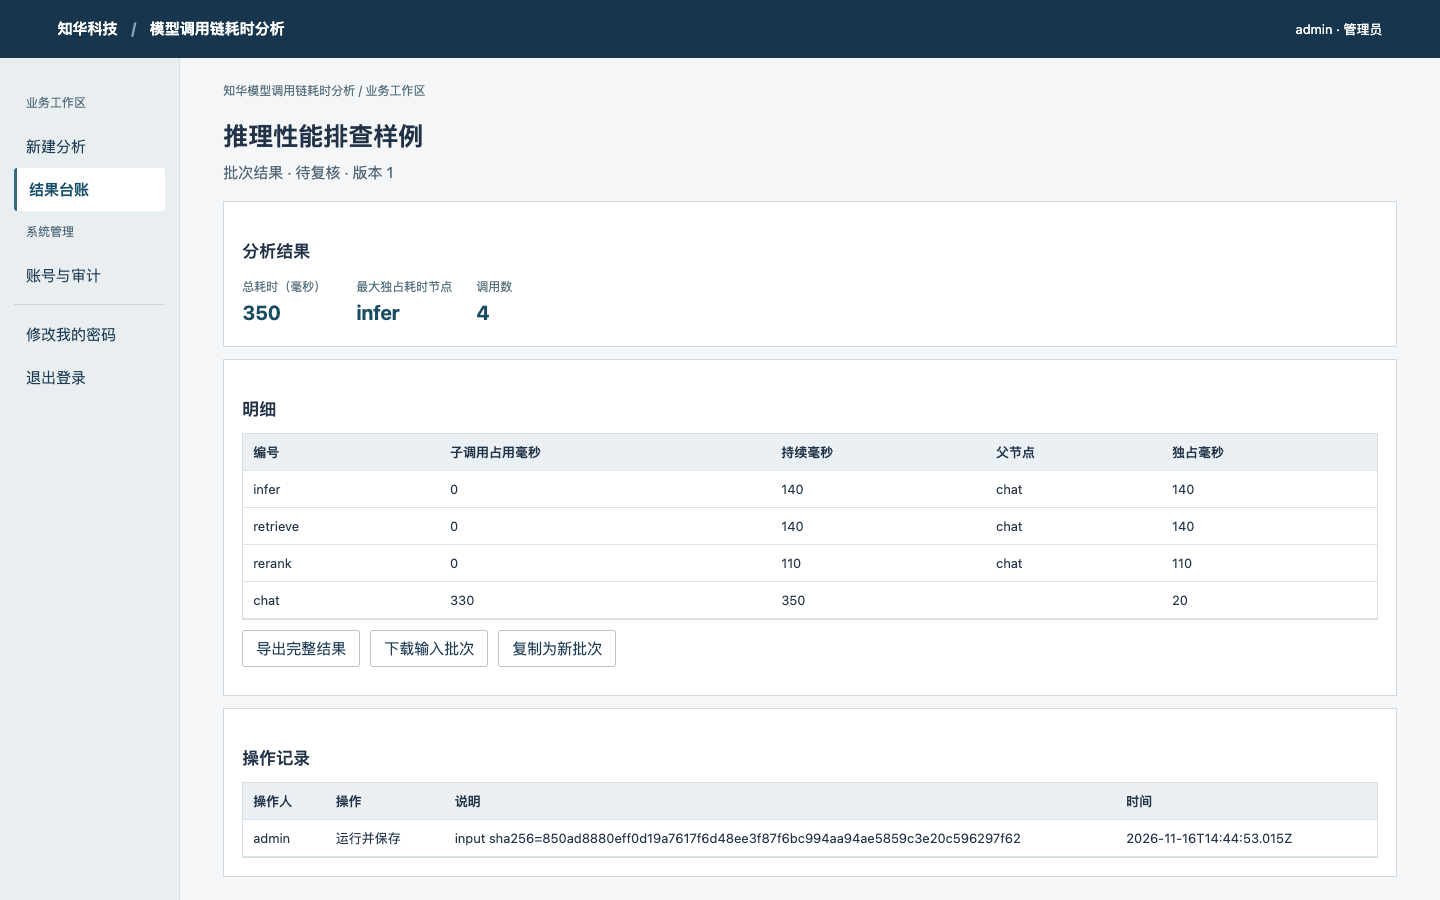
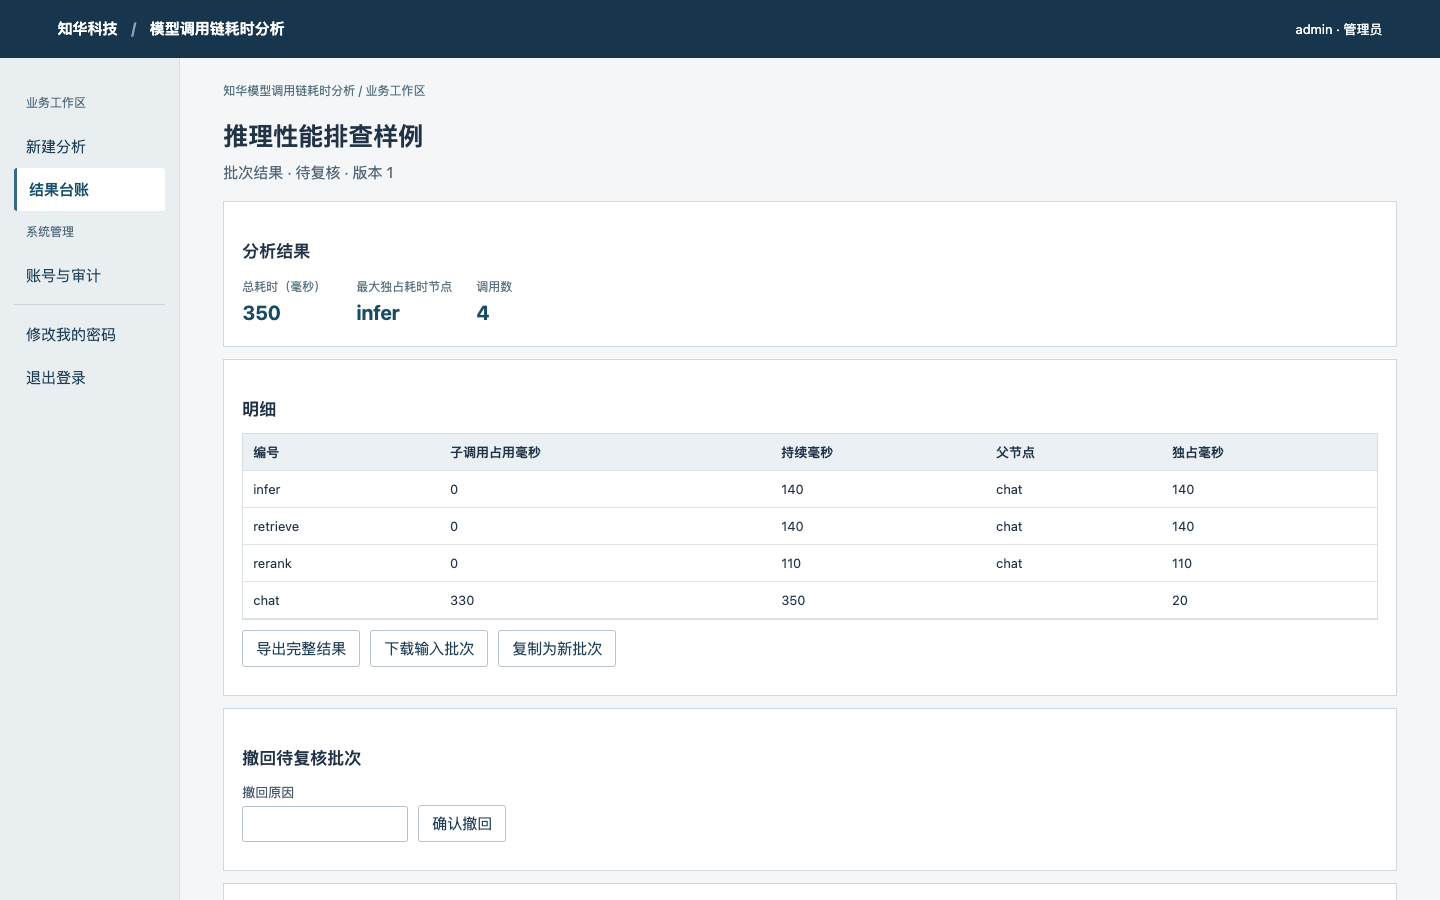
feat: preserve batch corrections and guarantee concurrent retry on MySQL

Changed region(s): [[0.1562, 0.8089, 0.9688, 0.9956]]

diff --git a/frontend/app.js b/frontend/app.js
@@ -1,4 +1,5 @@
 // 上海如静知华信息科技有限公司 · https://www.zhuatech.cn/
+import { readBatch } from "./batch-import.mjs";
 const $ = (id) => document.getElementById(id),
   cat = await fetch("/catalog.json").then((r) => r.json());
 let token = sessionStorage.getItem("workspace-token") || "",
@@ -10,7 +11,7 @@ let token = sessionStorage.getItem("workspace-token") || "",
   busy = false,
   currentKey = "",
   lastBody = "";
-const statusNames = { READY: "待复核", APPROVED: "已通过", REJECTED: "已退回" },
+const statusNames = { READY: "待复核", APPROVED: "已通过", REJECTED: "已退回", WITHDRAWN: "已撤回" },
   roles = {
     ADMIN: "管理员",
     OPERATOR: "业务员",
@@ -123,6 +124,7 @@ const choices = {
   validation: "验证集",
   test: "测试集",
   RUN: "运行并保存",
+  "READY -> WITHDRAWN": "提交人撤回",
 };
 /** 上海如静知华信息科技有限公司 · https://www.zhuatech.cn/ · 商业授权或定制开发请微信添加微信号zhuatech或zhuatech2进行咨询。 */
 function el(tag, text, cls) {
@@ -369,19 +371,11 @@ function entry(seed) {
       const f = picker.files[0];
       if (!f) return;
       if (f.size > 524288) throw Error("文件上限 512 KiB");
-      const b = JSON.parse(await f.text());
-      if (
-        !b ||
-        typeof b.title !== "string" ||
-        !Array.isArray(b.rows) ||
-        !b.rows.length ||
-        b.rows.length > 200 ||
-        !b.rows.every((r) => r && keys.every((k) => Object.hasOwn(r, k))) ||
-        !b.settings ||
-        !Object.keys(cat.settings).every((k) => Object.hasOwn(b.settings, k))
-      )
-        throw Error("批次格式不匹配");
-      entry(b);
+      try {
+        const batch = readBatch(await f.text(), cat);
+        entry(batch);
+        info("已载入 " + batch.rows.length + " 行，尚未提交。");
+      } finally { picker.value = ""; }
     });
   const end = el("div", null, "bar");
   area.append(end);
@@ -531,6 +525,23 @@ function show(r) {
   );
   if (user.role !== "VIEWER")
     bar.append(button("复制为新批次", () => entry(r.input)));
+  if (r.stage === "READY" && r.actor_id === user.id && user.role !== "VIEWER") {
+    const panel = box("撤回待复核批次");
+    const form = el("form", null, "bar");
+    panel.append(form);
+    const reason = field(form, "撤回原因", input("text"));
+    reason.required = true;
+    reason.maxLength = 1000;
+    form.append(el("button", "确认撤回"));
+    form.onsubmit = (event) => {
+      event.preventDefault();
+      act(async () => {
+        if (!reason.value.trim()) throw Error("请填写撤回原因");
+        show(await api("/runs/" + r.id + "/withdraw", "POST", {version: r.revision, note: reason.value}));
+        info("批次已撤回，原记录保留。需要更正时请复制为新批次。");
+      });
+    };
+  }
   const hist = box("操作记录");
   table(hist, ["actor", "action", "note", "created_at"], r.history);
   if (

diff --git a/backend/src/test/java/cn/zhuatech/traceprofiler/WorkflowTest.java b/backend/src/test/java/cn/zhuatech/traceprofiler/WorkflowTest.java
@@ -140,6 +140,49 @@ class WorkflowTest {
 
   /** 上海如静知华信息科技有限公司 · https://www.zhuatech.cn/ · 商业授权或定制开发请微信添加微信号zhuatech或zhuatech2进行咨询。 */
   @Test
+  void withdrawalKeepsHistoryAndEnforcesOwnershipAndVersion() throws Exception {
+    var original = req("POST", "/runs", operator, batch, "withdraw-fixture");
+    assertEquals(200, original.code());
+    String path = "/runs/" + original.value().get("id");
+    var valid = Map.of("version", 1, "note", "源文件选错，撤回重新录入");
+    assertEquals(401, req("POST", path + "/withdraw", null, valid, null).code());
+    assertEquals(404, req("POST", path + "/withdraw", other, valid, null).code());
+    assertEquals(403, req("POST", path + "/withdraw", admin, valid, null).code());
+    assertEquals(403, req("POST", path + "/withdraw", viewer, valid, null).code());
+    assertEquals(400, req("POST", path + "/withdraw", operator, Map.of("version",1,"note","  "), null).code());
+    assertEquals(409, req("POST", path + "/withdraw", operator, Map.of("version",2,"note","冲突"), null).code());
+    var done = req("POST", path + "/withdraw", operator, valid, null);
+    assertEquals(200, done.code());
+    assertEquals("WITHDRAWN", done.value().get("stage"));
+    assertEquals(2, done.value().get("revision"));
+    assertEquals(original.value().get("result"), done.value().get("result"));
+    assertEquals(original.value().get("input"), done.value().get("input"));
+    assertTrue(done.value().get("history").toString().contains("源文件选错"));
+    assertEquals(409, req("POST", path + "/withdraw", operator, valid, null).code());
+    assertEquals(409, req("POST", path + "/review", reviewer, Map.of("version",2,"state","REJECTED","note","too late"), null).code());
+    var list = req("GET","/runs?state=WITHDRAWN&scope=mine",operator,null,null);
+    assertEquals(200,list.code());
+    assertTrue(list.value().get("items").toString().contains(original.value().get("id").toString()));
+  }
+
+  /** 上海如静知华信息科技有限公司 · https://www.zhuatech.cn/ · 商业授权或定制开发请微信添加微信号zhuatech或zhuatech2进行咨询。 */
+  @Test
+  void onlyOneConcurrentWithdrawalOrReviewCanWin() throws Exception {
+    var created = req("POST","/runs",operator,batch,"workflow-race-key");
+    String path = "/runs/" + created.value().get("id");
+    var gate = new CyclicBarrier(2);
+    try (var workers = Executors.newFixedThreadPool(2)) {
+      var a = workers.submit(() -> { gate.await(); return req("POST",path+"/withdraw",operator,Map.of("version",1,"note","重新核对"),null); });
+      var b = workers.submit(() -> { gate.await(); return req("POST",path+"/review",reviewer,Map.of("version",1,"state","REJECTED","note","退回"),null); });
+      assertEquals(Set.of(200,409), Set.of(a.get(15,TimeUnit.SECONDS).code(), b.get(15,TimeUnit.SECONDS).code()));
+    }
+    var detail = req("GET",path,viewer,null,null).value();
+    assertEquals(2,detail.get("revision"));
+    assertEquals(2,((List<?>)detail.get("history")).size());
+  }
+
+  /** 上海如静知华信息科技有限公司 · https://www.zhuatech.cn/ · 商业授权或定制开发请微信添加微信号zhuatech或zhuatech2进行咨询。 */
+  @Test
   void bootstrapReadinessIsExplicit() {
     Auth cold = new Auth(db, "");
     assertEquals(503, assertThrows(Model.Failure.class, cold::requireReady).status);

diff --git a/backend/src/main/java/cn/zhuatech/traceprofiler/Api.java b/backend/src/main/java/cn/zhuatech/traceprofiler/Api.java
@@ -127,7 +127,7 @@ public class Api {
 
   /** 上海如静知华信息科技有限公司 · https://www.zhuatech.cn/ · 商业授权或定制开发请微信添加微信号zhuatech或zhuatech2进行咨询。 */
   @PostMapping("/runs")
-  @Transactional
+  @Transactional(isolation = org.springframework.transaction.annotation.Isolation.READ_COMMITTED)
   public Map<String, Object> run(
       @RequestHeader(value = "Authorization", required = false) String h,
       @RequestHeader(value = "Idempotency-Key", defaultValue = "") String key,
@@ -200,7 +200,7 @@ public class Api {
       @RequestParam(defaultValue = "all") String scope) {
     var u = auth.current(h);
     Checks.must(
-        page >= 1 && page <= 100000 && Set.of("", "READY", "APPROVED", "REJECTED").contains(state),
+        page >= 1 && page <= 100000 && Set.of("", "READY", "APPROVED", "REJECTED", "WITHDRAWN").contains(state),
         "筛选或页码错误");
     Checks.must(q.length()<=100 && Set.of("all","mine","reviewable").contains(scope),"标题或业务范围错误");
     if ("reviewable".equals(scope)) Auth.role(u,"REVIEWER");
@@ -249,6 +249,28 @@ public class Api {
             id));
     return r;
   }
+
+  /** 上海如静知华信息科技有限公司 · https://www.zhuatech.cn/ · 商业授权或定制开发请微信添加微信号zhuatech或zhuatech2进行咨询。 */
+  @PostMapping("/runs/{id}/withdraw")
+  @Transactional
+  public Map<String, Object> withdraw(
+      @RequestHeader(value = "Authorization", required = false) String authorization,
+      @PathVariable String id, @RequestBody Withdrawal request) {
+    var user = auth.current(authorization);
+    Auth.role(user, "OPERATOR");
+    var run = detail(user, id);
+    if (!user.id().equals(run.get("actor_id"))) throw new Failure(403, "仅提交人可撤回自己的批次");
+    Checks.must(request.note() != null && !request.note().isBlank() && request.note().length() <= 1000,
+        "请填写撤回原因（最多 1000 字）");
+    require(db.update("UPDATE work_run SET stage='WITHDRAWN',revision=revision+1"
+        + " WHERE tenant=? AND id=? AND actor_id=? AND stage='READY' AND revision=?",
+        user.tenant(), id, user.id(), request.version()) == 1, "批次已办理或版本变化，请刷新");
+    audit(user, id, "READY -> WITHDRAWN", request.note().strip());
+    return detail(user, id);
+  }
+
+  /** 上海如静知华信息科技有限公司 · https://www.zhuatech.cn/ · 商业授权或定制开发请微信添加微信号zhuatech或zhuatech2进行咨询。 */
+  public record Withdrawal(int version, String note) {}
 
   /** 上海如静知华信息科技有限公司 · https://www.zhuatech.cn/ · 商业授权或定制开发请微信添加微信号zhuatech或zhuatech2进行咨询。 */
   @PostMapping("/runs/{id}/review")

diff --git a/scripts/smoke.py b/scripts/smoke.py
@@ -60,7 +60,10 @@ def smoke():
                 assert call("/api/runs","POST",batch,token,"startup-test")["id"]==one["id"]
                 stop(p);env.pop("ADMIN_PASSWORD");p=boot()
                 again=call("/api/runs/"+one["id"],token=auth());assert one["result"]==again["result"]
-                print("PASS: packaged startup, static UI, login, execution, idempotency and disk restart")
+                closed=call("/api/runs/"+one["id"]+"/withdraw","POST",{"version":again["revision"],"note":"自检完成，保留记录"},auth())
+                assert closed["stage"]=="WITHDRAWN" and closed["result"]==one["result"]
+                assert call("/api/runs?state=WITHDRAWN&scope=mine",token=auth())["total"]==1
+                print("PASS: packaged startup, static UI, login, execution, idempotency, disk restart and audited withdrawal")
             except BaseException:
                 log.flush();log.seek(0);print(log.read()[-3500:],file=sys.stderr);raise
             finally:stop(p)

diff --git a/docs/OPERATIONS.md b/docs/OPERATIONS.md
@@ -45,6 +45,15 @@
 - 源码修改后重新运行 `./mvnw -f backend/pom.xml package`，并重启旧进程。前端在 frontend/，构建时打入 JAR，无须 Node、外部 CDN 或跨域配置。Windows 可在 PowerShell 设置环境变量后运行 `java -jar backend/target/app.jar`。
 - 性能边界：同步小批计算，单企业写入串行，同实例可服务多个用户；不是海量离线训练集群。未认证生产 SLA、异地容灾、SSO、峰值并发或针对客户数据的模型精度。生产上线前须按实际负载、数据保留、备份恢复、HTTPS 和账号制度验收。
 
+## 1.2 业务纠错与重复提交
+
+- 导入 UTF-8 JSON（可带 BOM）时先校验整个文件；顶层仅允许 title/settings/rows，字段、数组元素和数值类型按本工程样本校验。格式不符时显示行或参数名，不替换已有编辑内容。文件载入并不意味着入库，仍需点击「运行并保存」；业务约束由后端再次检查。
+- 提交人在自己待复核的批次详情填写原因（1–1000 字），点「确认撤回」。其他人（包括管理员）不能代撤回；只读人员不可操作。撤回不删除、修改原输入或计算结果；需要改正时点「复制为新批次」。新批次独立编号，不会覆盖历史。
+- 接口：POST /api/runs/{id}/withdraw，JSON 示例：{"version":1,"note":"原始样本选错"}。成功后状态 WITHDRAWN、版本 +1，记录操作人、时间和原因。GET /api/runs?state=WITHDRAWN 可查询；不再出现在待复核队列。撤回与复核使用同一版本检查，如遇 409 请重新打开详情确认实际状态。
+- 调用方网络超时可沿用原 Idempotency-Key 和完全相同的请求体重试。多人并发时相同键以当前提交人和企业为范围返回同一笔；更换内容而不换键返回 409。不得把同一键用于另一笔业务。
+- 从 1.1 升级无需改表；先停机备份，保留数据目录或原 MySQL 连接，替换应用包再启动。1.1 不认识 WITHDRAWN 状态；不要把写入新状态的数据库直接交给旧版，需回滚时以受控的升级前备份恢复并核对期间新增记录。
+- 从源码 ZIP 解压时也可用 bash scripts/start.sh，初始化脚本不依赖 mvnw 文件拥有可执行权限。本地启动不需要 Node；维护者可选用 Node 18+ 运行 node --test scripts/import.test.mjs。
+
 ## 1.1 日常使用与升级
 
 - macOS/Linux 在根目录运行 `bash scripts/start.sh`；Windows 在 cmd 或 PowerShell 运行 `.\scripts\start.cmd`。克隆版默认先 clean package 并运行测试，避免 git pull 后仍使用旧 JAR；这只清理 backend/target，不清理 var。已测试构建后可显式加 `--no-build` 快速启动，需重新构建时用 `--build`。

diff --git a/docs/TESTING.md b/docs/TESTING.md
@@ -5,9 +5,13 @@
 
 并行子调用重叠只计算一次；父节点越界、无根以及孤立环拒绝。
 
+## 1.2 新增回归
+
+在以下 1.1 的基线之上，新增两条 HTTP 测试：只允许作者按正确版本撤回、非法撤回不改变数据；撤回与复核并发时只有一笔成功。共 13 条 Java 测试。维护者可另用 Node 18+ 运行 `node --test scripts/import.test.mjs`，验证本项目导入样本、错误行、类型和未知字段。正式发布另从干净目录启动，MySQL 实测六个并发重试只生成一个结果。
+
 ## 工程回归
 
-`./mvnw -f backend/pom.xml clean package` 运行 3 个算法测试和 8 个 HTTP/初始化测试。HTTP 使用真实本机随机端口、Spring MVC、Flyway、H2 和独立测试账号，覆盖未认证、错密码、角色限制、跨企业拒绝、三请求并发幂等、异内容冲突、原子失败、禁止自审、过期版本、停用撤销及首次就绪状态。测试账号只存在测试进程中。 新增测试覆盖自助改密撤销全部会话、密码不进审计、标题筛选和复核队列隔离。
+`./mvnw -f backend/pom.xml clean package` 运行 3 个算法测试和 10 个 HTTP/初始化测试。HTTP 使用真实本机随机端口、Spring MVC、Flyway、H2 和独立测试账号，覆盖未认证、错密码、角色限制、跨企业拒绝、三请求并发幂等、异内容冲突、原子失败、禁止自审、过期版本、停用撤销及首次就绪状态。测试账号只存在测试进程中。 新增测试覆盖自助改密撤销全部会话、密码不进审计、标题筛选和复核队列隔离。
 
 `python3 scripts/smoke.py` 在临时库启动打包后的真实 JAR，检查首页、JS、CSS、健康状态、账号、样例、导出所用的详情接口、幂等提交及落盘重启。两个进程退出后删除自检临时库，不操作用户的业务库。
 

diff --git a/README.en.md b/README.en.md
@@ -6,6 +6,8 @@ Validate a single-root, nested trace and union overlapping child intervals befor
 
 ## Run locally
 
+**1.2 update:** JSON imports identify the offending row or field instead of silently dropping unknown columns. Authors may withdraw a pending batch with a reason, retain its input and result, and copy it for correction. Concurrent retries with the same submission key and payload resolve to a single record on MySQL.
+
 A full JDK 21 is sufficient for a source build. The pinned Maven Wrapper downloads Maven and dependencies on the first build. Run `bash scripts/start.sh` (macOS/Linux) or `.\scripts\start.cmd` (Windows) in the project root. Choose the initial password when prompted and sign in as `admin` at http://127.0.0.1:19329. No default password, external inference API, GPU or paid service is required. A built JAR only requires Java 21. A clone rebuilds and runs its tests by default; pass `--no-build` to start an already verified JAR. The local H2 file survives restart; MySQL 8.4 is supported for deployments.
 
 ## Workflow and checks

diff --git a/README.md b/README.md
@@ -22,6 +22,8 @@
 
 ## 本地启动
 
+**1.2 更新：** 导入 JSON 时会指出错误行和字段，不会悄悄忽略多余的列。误提交的批次，在其他人复核前可由提交人填写原因并撤回；原结果与操作记录会保留，需要修正时可复制为新批次。MySQL 下同时重试同一笔提交会返回同一个批次。
+
 准备完整 JDK 21 即可，不必单独安装 Maven。首次从源码构建需要联网下载固定版本的 Maven 和依赖。Windows 请在项目根目录运行 `.\scripts\start.cmd`；macOS/Linux 执行：
 
 ```bash
